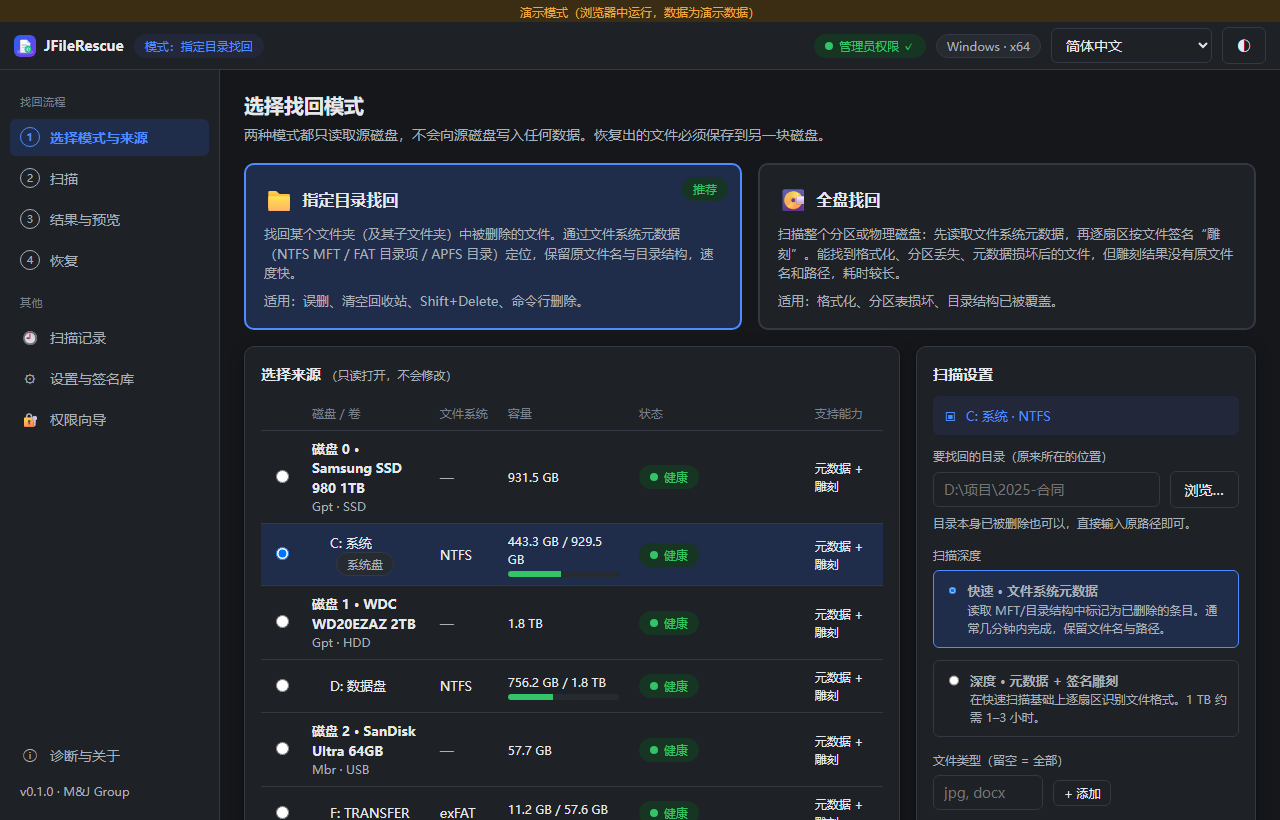
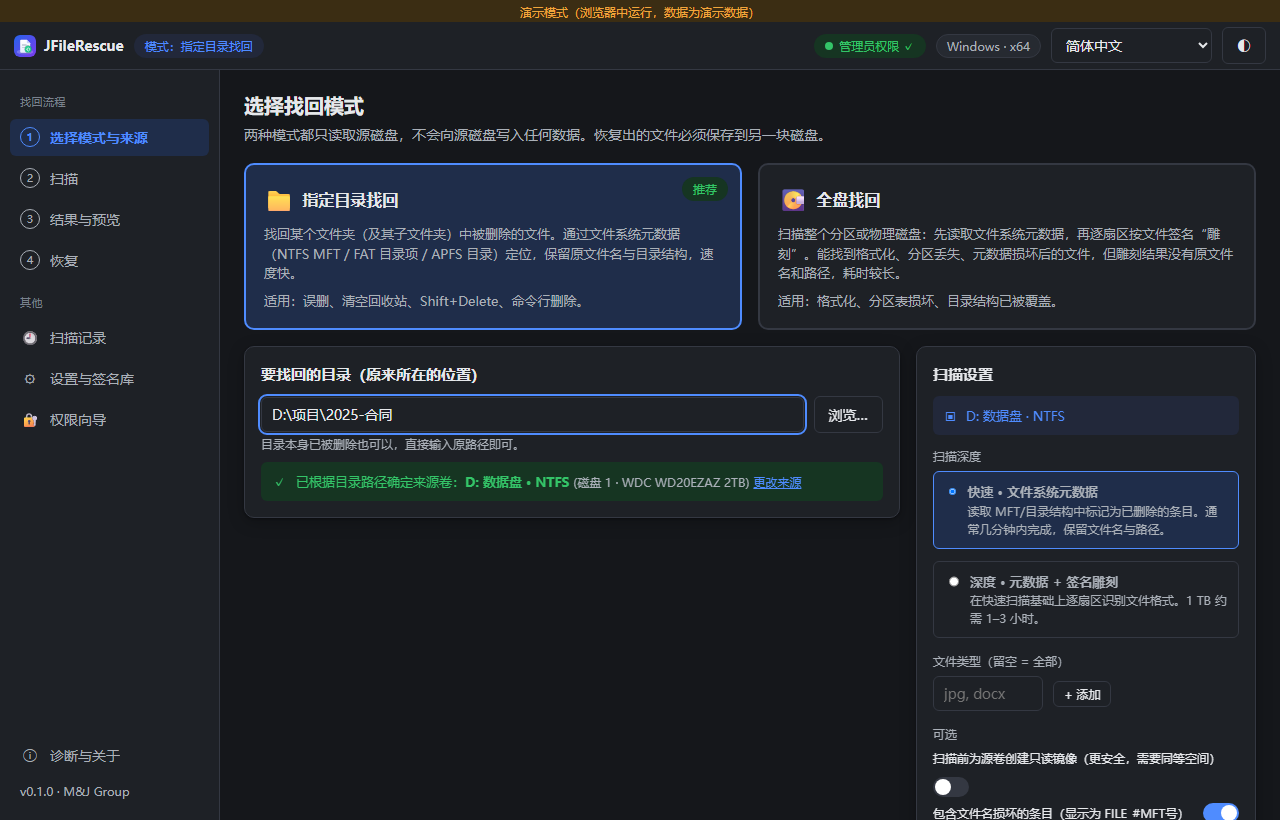
Directory mode infers source volume from path; release workflow tolerates missing signing key; repo URLs → luckySpro/jfilerescue

diff --git a/src/i18n.ts b/src/i18n.ts
@@ -8,7 +8,7 @@ const zhCN = {
   nav: { flow: "找回流程", other: "其他", home: "选择模式与来源", scan: "扫描", results: "结果与预览", recover: "恢复", sessions: "扫描记录", settings: "设置与签名库", perm: "权限向导", about: "诊断与关于" },
   top: { mode: "模式", none: "未选择", elevated: "管理员权限 ✓", notElevated: "未提权", fdaPending: "完全磁盘访问 待确认", theme: "切换主题", lang: "语言", system: "跟随系统", light: "浅色", dark: "深色", demo: "演示模式（浏览器中运行，数据为演示数据）" },
   mode: { title: "选择找回模式", sub: "两种模式都只读取源磁盘，不会向源磁盘写入任何数据。恢复出的文件必须保存到另一块磁盘。", dir: "指定目录找回", dirDesc: "找回某个文件夹（及其子文件夹）中被删除的文件。通过文件系统元数据（NTFS MFT / FAT 目录项 / APFS 目录）定位，保留原文件名与目录结构，速度快。", dirFor: "适用：误删、清空回收站、Shift+Delete、命令行删除。", full: "全盘找回", fullDesc: "扫描整个分区或物理磁盘：先读取文件系统元数据，再逐扇区按文件签名“雕刻”。能找到格式化、分区丢失、元数据损坏后的文件，但雕刻结果没有原文件名和路径，耗时较长。", fullFor: "适用：格式化、分区表损坏、目录结构已被覆盖。", recommended: "推荐" },
-  source: { title: "选择来源", ro: "（只读打开，不会修改）", disk: "磁盘 / 卷", fs: "文件系统", cap: "容量", status: "状态", caps: "支持能力", refresh: "重新检测", noDisk: "看不到磁盘？请确认已获得权限 →", wizard: "权限向导", image: "打开镜像文件…", ssd: "为 SSD 且已启用 TRIM。", ssdWarn: "被删除的数据块可能已被固件擦除，找回成功率显著降低；建议立即停止向该盘写入。", fv: "已启用 FileVault/加密。", fvWarn: "原始设备只能读到密文，签名雕刻不可用；指定目录找回将依赖文件系统元数据。", metaCarve: "元数据 + 雕刻", carveOnly: "仅雕刻 · 全盘模式", system: "系统盘", encrypted: "加密", locked: "已锁定", unlocked: "已解锁", health: { ok: "健康", warn: "警告", bad: "异常", unknown: "未知" }, loading: "正在枚举磁盘…", empty: "未发现磁盘。请以管理员身份运行，或打开镜像文件。" },
+  source: { title: "选择来源", ro: "（只读打开，不会修改）", disk: "磁盘 / 卷", fs: "文件系统", cap: "容量", status: "状态", caps: "支持能力", refresh: "重新检测", noDisk: "看不到磁盘？请确认已获得权限 →", wizard: "权限向导", image: "打开镜像文件…", inferred: "已根据目录路径确定来源卷", changeSource: "更改来源", hideList: "收起", notInferred: "无法从该路径确定所在的卷（盘符/挂载点不在当前设备列表中）。请检查路径，或在下方手动选择来源。", ssd: "为 SSD 且已启用 TRIM。", ssdWarn: "被删除的数据块可能已被固件擦除，找回成功率显著降低；建议立即停止向该盘写入。", fv: "已启用 FileVault/加密。", fvWarn: "原始设备只能读到密文，签名雕刻不可用；指定目录找回将依赖文件系统元数据。", metaCarve: "元数据 + 雕刻", carveOnly: "仅雕刻 · 全盘模式", system: "系统盘", encrypted: "加密", locked: "已锁定", unlocked: "已解锁", health: { ok: "健康", warn: "警告", bad: "异常", unknown: "未知" }, loading: "正在枚举磁盘…", empty: "未发现磁盘。请以管理员身份运行，或打开镜像文件。" },
   settings: { title: "扫描设置", dirLabel: "要找回的目录（原来所在的位置）", dirHint: "目录本身已被删除也可以，直接输入原路径即可。", browse: "浏览…", depth: "扫描深度", quick: "快速 · 文件系统元数据", quickDesc: "读取 MFT/目录结构中标记为已删除的条目。通常几分钟内完成，保留文件名与路径。", deep: "深度 · 元数据 + 签名雕刻", deepDesc: "在快速扫描基础上逐扇区识别文件格式。1 TB 约需 1–3 小时。", deepDirNote: "指定目录模式下雕刻结果无法归属到目录，深度扫描只对全盘模式生效。", types: "文件类型（留空 = 全部）", add: "+ 添加", optional: "可选", imageOpt: "扫描前为源卷创建只读镜像（更安全，需要同等空间）", damaged: "包含文件名损坏的条目（显示为 FILE_#MFT号）", start: "开始扫描", estimate: "快速扫描通常数分钟 · 不占用源盘写入", needDir: "请填写要找回的目录", needSource: "请选择来源磁盘或卷", imageDest: "选择镜像保存位置" },
   scan: { title: "正在扫描", target: "目标", phases: { boot: "① 读取分区与引导扇区", metadata: "② 遍历文件系统元数据", carve: "③ 签名雕刻（未分配簇）", finalize: "④ 整理与去重" }, done: "已完成", running: "进行中", waiting: "等待", elapsed: "已用", remaining: "预计剩余", speed: "读取速度", readErr: "读错误", found: "已发现文件", withName: "含文件名（元数据）", carved: "仅签名（无文件名）", bytes: "已读取", pause: "暂停", resume: "继续", stop: "停止并查看已找到的文件", bg: "最小化到后台", locked: "扫描期间：该卷的恢复操作已锁定", recent: "实时发现", log: "日志", finished: "扫描完成", viewResults: "查看结果 →", failed: "扫描失败", cancelled: "扫描已取消", stopConfirm: "停止扫描？", stopBody: "停止后当前已找到的结果不会保存（元数据阶段完成后才会生成结果）。确定要停止吗？", stopKeep: "继续扫描", stopDo: "停止" },
   results: { title: "扫描结果", completed: "完成于", files: "个文件", saved: "会话已自动保存，可随时回到此页", exportCsv: "导出清单 (CSV)", rescan: "重新扫描", browse: "浏览方式", byDir: "按原目录", byType: "按文件类型", byTime: "按删除时间", carvedGroup: "签名雕刻（无路径）", damagedGroup: "文件名损坏", all: "全部", search: "搜索文件名 / 路径 / 扩展名…", quality: "可恢复性", qAll: "全部", qHigh: "仅高", qHighMed: "高 + 中", size: "大小", sizeAll: "全部", time: "删除时间", timeAll: "全部", h24: "24 小时内", d7: "7 天内", d30: "30 天内", hideEmpty: "隐藏 0 字节", colName: "文件名", colPath: "原路径", colSize: "大小", colTime: "删除时间", colQuality: "可恢复性", colSource: "来源", srcMeta: "元数据", srcCarved: "签名", noPath: "（无路径）", unknown: "未知", preview: "预览", previewHint: "点击左侧文件查看预览", kvName: "文件名", kvPath: "原路径", kvSize: "大小", kvDeleted: "删除时间", kvModified: "修改时间", kvOverwritten: "数据簇", kvQuality: "可恢复性", kvNote: "说明", bytesUnit: "字节", overwritten: "已覆盖", selected: "已选", lowDefault: "可恢复性“低”的文件默认不勾选", selectHigh: "全选“高”", selectPage: "全选本页", clear: "清空", toRecover: "恢复所选文件 →", qLabel: { high: "高", medium: "中", low: "低" }, damagedTag: "文件名损坏", loading: "加载中…", matched: "匹配", more: "加载更多" },
@@ -28,7 +28,7 @@ Object.assign(zhTW.app, { tagline: "唯讀檔案找回" });
 Object.assign(zhTW.nav, { flow: "找回流程", other: "其他", home: "選擇模式與來源", scan: "掃描", results: "結果與預覽", recover: "復原", sessions: "掃描記錄", settings: "設定與簽章庫", perm: "權限精靈", about: "診斷與關於" });
 Object.assign(zhTW.top, { mode: "模式", none: "未選擇", elevated: "系統管理員權限 ✓", notElevated: "未提權", fdaPending: "完整磁碟取用 待確認", theme: "切換主題", lang: "語言", system: "跟隨系統", light: "淺色", dark: "深色", demo: "示範模式（於瀏覽器執行，資料為示範資料）" });
 Object.assign(zhTW.mode, { title: "選擇找回模式", sub: "兩種模式都只讀取來源磁碟，不會寫入任何資料。復原的檔案必須儲存到另一顆磁碟。", dir: "指定目錄找回", dirDesc: "找回某個資料夾（含子資料夾）中被刪除的檔案。透過檔案系統中繼資料（NTFS MFT / FAT 目錄項 / APFS 目錄）定位，保留原檔名與目錄結構，速度快。", dirFor: "適用：誤刪、清空資源回收筒、Shift+Delete、命令列刪除。", full: "全碟找回", fullDesc: "掃描整個分割區或實體磁碟：先讀取檔案系統中繼資料，再逐磁區依檔案簽章「雕刻」。可找到格式化、分割區遺失、中繼資料損毀後的檔案，但雕刻結果沒有原檔名與路徑，耗時較長。", fullFor: "適用：格式化、分割表損毀、目錄結構已被覆寫。", recommended: "推薦" });
-Object.assign(zhTW.source, { title: "選擇來源", ro: "（唯讀開啟，不會修改）", disk: "磁碟 / 磁碟區", fs: "檔案系統", cap: "容量", status: "狀態", caps: "支援能力", refresh: "重新偵測", noDisk: "看不到磁碟？請確認已取得權限 →", wizard: "權限精靈", image: "開啟映像檔…", ssd: "為 SSD 且已啟用 TRIM。", ssdWarn: "被刪除的資料區塊可能已被韌體清除，找回成功率顯著降低；建議立即停止寫入該磁碟。", fv: "已啟用 FileVault/加密。", fvWarn: "原始裝置只能讀到密文，簽章雕刻不可用；指定目錄找回將依賴檔案系統中繼資料。", metaCarve: "中繼資料 + 雕刻", carveOnly: "僅雕刻 · 全碟模式", system: "系統碟", encrypted: "加密", locked: "已鎖定", unlocked: "已解鎖", loading: "正在列舉磁碟…", empty: "未發現磁碟。請以系統管理員身分執行，或開啟映像檔。" });
+Object.assign(zhTW.source, { title: "選擇來源", ro: "（唯讀開啟，不會修改）", disk: "磁碟 / 磁碟區", fs: "檔案系統", cap: "容量", status: "狀態", caps: "支援能力", refresh: "重新偵測", noDisk: "看不到磁碟？請確認已取得權限 →", wizard: "權限精靈", image: "開啟映像檔…", inferred: "已依目錄路徑確定來源磁碟區", changeSource: "變更來源", hideList: "收合", notInferred: "無法從該路徑確定所在磁碟區（磁碟機代號/掛載點不在目前裝置清單中）。請檢查路徑，或在下方手動選擇來源。", ssd: "為 SSD 且已啟用 TRIM。", ssdWarn: "被刪除的資料區塊可能已被韌體清除，找回成功率顯著降低；建議立即停止寫入該磁碟。", fv: "已啟用 FileVault/加密。", fvWarn: "原始裝置只能讀到密文，簽章雕刻不可用；指定目錄找回將依賴檔案系統中繼資料。", metaCarve: "中繼資料 + 雕刻", carveOnly: "僅雕刻 · 全碟模式", system: "系統碟", encrypted: "加密", locked: "已鎖定", unlocked: "已解鎖", loading: "正在列舉磁碟…", empty: "未發現磁碟。請以系統管理員身分執行，或開啟映像檔。" });
 Object.assign(zhTW.settings, { title: "掃描設定", dirLabel: "要找回的目錄（原本所在位置）", dirHint: "目錄本身已被刪除也可以，直接輸入原路徑即可。", browse: "瀏覽…", depth: "掃描深度", quick: "快速 · 檔案系統中繼資料", quickDesc: "讀取 MFT/目錄結構中標記為已刪除的項目。通常數分鐘內完成，保留檔名與路徑。", deep: "深度 · 中繼資料 + 簽章雕刻", deepDesc: "在快速掃描基礎上逐磁區辨識檔案格式。1 TB 約需 1–3 小時。", deepDirNote: "指定目錄模式下雕刻結果無法歸屬到目錄，深度掃描只對全碟模式生效。", types: "檔案類型（留空 = 全部）", add: "+ 新增", optional: "選用", imageOpt: "掃描前為來源磁碟區建立唯讀映像（更安全，需要同等空間）", damaged: "包含檔名損毀的項目（顯示為 FILE_#MFT號）", start: "開始掃描", estimate: "快速掃描通常數分鐘 · 不佔用來源碟寫入", needDir: "請填寫要找回的目錄", needSource: "請選擇來源磁碟或磁碟區", imageDest: "選擇映像儲存位置" });
 Object.assign(zhTW.scan, { title: "正在掃描", target: "目標", done: "已完成", running: "進行中", waiting: "等待", elapsed: "已用", remaining: "預計剩餘", speed: "讀取速度", readErr: "讀取錯誤", found: "已發現檔案", withName: "含檔名（中繼資料）", carved: "僅簽章（無檔名）", bytes: "已讀取", pause: "暫停", resume: "繼續", stop: "停止並檢視已找到的檔案", bg: "最小化到背景", locked: "掃描期間：該磁碟區的復原操作已鎖定", recent: "即時發現", log: "記錄", finished: "掃描完成", viewResults: "檢視結果 →", failed: "掃描失敗", cancelled: "掃描已取消", stopConfirm: "停止掃描？", stopBody: "停止後目前已找到的結果不會儲存（中繼資料階段完成後才會產生結果）。確定要停止嗎？", stopKeep: "繼續掃描", stopDo: "停止" });
 zhTW.scan.phases = { boot: "① 讀取分割區與開機磁區", metadata: "② 走訪檔案系統中繼資料", carve: "③ 簽章雕刻（未配置叢集）", finalize: "④ 整理與去重" };
@@ -51,7 +51,7 @@ const en: Dict = {
   nav: { flow: "Recovery", other: "More", home: "Mode & Source", scan: "Scan", results: "Results & Preview", recover: "Recover", sessions: "History", settings: "Settings & Signatures", perm: "Permissions", about: "Diagnostics & About" },
   top: { mode: "Mode", none: "not selected", elevated: "Administrator ✓", notElevated: "Not elevated", fdaPending: "Full Disk Access pending", theme: "Toggle theme", lang: "Language", system: "System", light: "Light", dark: "Dark", demo: "Demo mode (running in a browser with sample data)" },
   mode: { title: "Choose a recovery mode", sub: "Both modes only read the source disk and never write to it. Recovered files must be saved to a different disk.", dir: "Recover a folder", dirDesc: "Recover deleted files from one folder (and its subfolders). Uses file system metadata (NTFS MFT / FAT entries / APFS catalog), keeps original names and paths, and is fast.", dirFor: "For: accidental deletion, emptied Recycle Bin, Shift+Delete, command-line deletion.", full: "Full disk recovery", fullDesc: "Scans a whole partition or physical disk: file system metadata first, then sector-by-sector signature carving. Finds files after formatting, lost partitions or damaged metadata, but carved files have no original name or path and it takes longer.", fullFor: "For: formatting, damaged partition table, overwritten directory structure.", recommended: "Recommended" },
-  source: { title: "Select source", ro: "(opened read-only, never modified)", disk: "Disk / Volume", fs: "File system", cap: "Capacity", status: "Status", caps: "Capabilities", refresh: "Rescan devices", noDisk: "Missing disks? Check permissions →", wizard: "Permissions", image: "Open image file…", ssd: "is an SSD with TRIM enabled.", ssdWarn: "Deleted blocks may already be erased by the firmware; recovery odds drop sharply. Stop writing to this disk now.", fv: "is encrypted (FileVault).", fvWarn: "The raw device only yields ciphertext; signature carving is unavailable. Folder recovery relies on file system metadata.", metaCarve: "Metadata + carving", carveOnly: "Carving only · full mode", system: "System", encrypted: "Encrypted", locked: "Locked", unlocked: "Unlocked", health: { ok: "Healthy", warn: "Warning", bad: "Bad", unknown: "Unknown" }, loading: "Enumerating disks…", empty: "No disks found. Run as administrator or open an image file." },
+  source: { title: "Select source", ro: "(opened read-only, never modified)", disk: "Disk / Volume", fs: "File system", cap: "Capacity", status: "Status", caps: "Capabilities", refresh: "Rescan devices", noDisk: "Missing disks? Check permissions →", wizard: "Permissions", image: "Open image file…", inferred: "Source volume determined from the folder path", changeSource: "Change source", hideList: "Hide", notInferred: "Could not determine the volume for this path (its drive letter / mount point is not in the device list). Check the path or pick the source below.", ssd: "is an SSD with TRIM enabled.", ssdWarn: "Deleted blocks may already be erased by the firmware; recovery odds drop sharply. Stop writing to this disk now.", fv: "is encrypted (FileVault).", fvWarn: "The raw device only yields ciphertext; signature carving is unavailable. Folder recovery relies on file system metadata.", metaCarve: "Metadata + carving", carveOnly: "Carving only · full mode", system: "System", encrypted: "Encrypted", locked: "Locked", unlocked: "Unlocked", health: { ok: "Healthy", warn: "Warning", bad: "Bad", unknown: "Unknown" }, loading: "Enumerating disks…", empty: "No disks found. Run as administrator or open an image file." },
   settings: { title: "Scan settings", dirLabel: "Folder to recover (original location)", dirHint: "The folder itself may be deleted; just type its original path.", browse: "Browse…", depth: "Scan depth", quick: "Quick · file system metadata", quickDesc: "Reads entries marked deleted in the MFT / directory structure. Usually minutes; keeps names and paths.", deep: "Deep · metadata + signature carving", deepDesc: "Adds sector-by-sector format detection. About 1–3 h per TB.", deepDirNote: "Carved files cannot be attributed to a folder, so deep scan applies to full mode only.", types: "File types (empty = all)", add: "+ Add", optional: "Optional", imageOpt: "Create a read-only image of the volume first (safer, needs equal space)", damaged: "Include entries with damaged names (shown as FILE_#record)", start: "Start scan", estimate: "Quick scan usually takes minutes · never writes to the source", needDir: "Enter the folder to recover", needSource: "Select a source disk or volume", imageDest: "Choose where to save the image" },
   scan: { title: "Scanning", target: "Target", phases: { boot: "① Partition table & boot sector", metadata: "② File system metadata", carve: "③ Signature carving (free clusters)", finalize: "④ Finalize & dedupe" }, done: "done", running: "running", waiting: "waiting", elapsed: "Elapsed", remaining: "Remaining", speed: "Read speed", readErr: "read errors", found: "Files found", withName: "With name (metadata)", carved: "Signature only", bytes: "Bytes read", pause: "Pause", resume: "Resume", stop: "Stop and view found files", bg: "Minimize to background", locked: "While scanning: recovery on this volume is locked", recent: "Live discoveries", log: "Log", finished: "Scan finished", viewResults: "View results →", failed: "Scan failed", cancelled: "Scan cancelled", stopConfirm: "Stop scanning?", stopBody: "Results found so far will not be saved (results are produced once the metadata phase completes). Stop anyway?", stopKeep: "Keep scanning", stopDo: "Stop" },
   results: { title: "Scan results", completed: "Completed", files: "files", saved: "Session saved automatically; you can come back any time", exportCsv: "Export list (CSV)", rescan: "Scan again", browse: "Browse by", byDir: "Original folder", byType: "File type", byTime: "Deletion time", carvedGroup: "Carved (no path)", damagedGroup: "Damaged names", all: "All", search: "Search name / path / extension…", quality: "Recoverability", qAll: "All", qHigh: "High only", qHighMed: "High + medium", size: "Size", sizeAll: "All", time: "Deleted", timeAll: "All", h24: "Last 24 h", d7: "Last 7 days", d30: "Last 30 days", hideEmpty: "Hide 0-byte", colName: "Name", colPath: "Original path", colSize: "Size", colTime: "Deleted", colQuality: "Recoverability", colSource: "Source", srcMeta: "Metadata", srcCarved: "Signature", noPath: "(no path)", unknown: "unknown", preview: "Preview", previewHint: "Select a file to preview", kvName: "Name", kvPath: "Path", kvSize: "Size", kvDeleted: "Deleted", kvModified: "Modified", kvOverwritten: "Clusters", kvQuality: "Recoverability", kvNote: "Note", bytesUnit: "bytes", overwritten: "overwritten", selected: "Selected", lowDefault: "“Low” files are unchecked by default", selectHigh: "Select all “high”", selectPage: "Select page", clear: "Clear", toRecover: "Recover selected →", qLabel: { high: "High", medium: "Medium", low: "Low" }, damagedTag: "damaged name", loading: "Loading…", matched: "matching", more: "Load more" },
@@ -69,7 +69,7 @@ const ja: Dict = {
   nav: { flow: "復元フロー", other: "その他", home: "モードとソース", scan: "スキャン", results: "結果とプレビュー", recover: "復元", sessions: "スキャン履歴", settings: "設定とシグネチャ", perm: "権限ウィザード", about: "診断と情報" },
   top: { mode: "モード", none: "未選択", elevated: "管理者権限 ✓", notElevated: "未昇格", fdaPending: "フルディスクアクセス 未確認", theme: "テーマ切替", lang: "言語", system: "システムに従う", light: "ライト", dark: "ダーク", demo: "デモモード（ブラウザ実行・サンプルデータ）" },
   mode: { title: "復元モードを選択", sub: "どちらのモードもソースディスクを読み取るだけで書き込みません。復元したファイルは別のディスクに保存してください。", dir: "フォルダ指定復元", dirDesc: "特定フォルダ（サブフォルダ含む）の削除ファイルを復元。ファイルシステムのメタデータ（NTFS MFT / FAT エントリ / APFS カタログ）から元の名前とパスを保持し高速です。", dirFor: "対象：誤削除、ごみ箱を空にした、Shift+Delete、コマンドライン削除。", full: "ディスク全体復元", fullDesc: "パーティションまたは物理ディスク全体をスキャン。メタデータの後、セクタ単位でシグネチャによる「カービング」を行います。フォーマット後やパーティション消失にも対応しますが、カービング結果には元の名前とパスがなく時間がかかります。", fullFor: "対象：フォーマット、パーティションテーブル破損、ディレクトリ構造の上書き。", recommended: "推奨" },
-  source: { title: "ソースを選択", ro: "（読み取り専用で開きます）", disk: "ディスク / ボリューム", fs: "ファイルシステム", cap: "容量", status: "状態", caps: "対応機能", refresh: "再検出", noDisk: "ディスクが見えない場合は権限を確認 →", wizard: "権限ウィザード", image: "イメージファイルを開く…", ssd: "は TRIM 有効の SSD です。", ssdWarn: "削除済みブロックはファームウェアにより消去済みの可能性があり、復元率が大幅に低下します。直ちに書き込みを停止してください。", fv: "は FileVault で暗号化されています。", fvWarn: "生デバイスからは暗号文しか読めずカービングは不可。フォルダ復元はメタデータに依存します。", metaCarve: "メタデータ + カービング", carveOnly: "カービングのみ · 全体モード", system: "システム", encrypted: "暗号化", locked: "ロック中", unlocked: "ロック解除済", health: { ok: "正常", warn: "警告", bad: "異常", unknown: "不明" }, loading: "ディスクを列挙中…", empty: "ディスクが見つかりません。管理者として実行するか、イメージファイルを開いてください。" },
+  source: { title: "ソースを選択", ro: "（読み取り専用で開きます）", disk: "ディスク / ボリューム", fs: "ファイルシステム", cap: "容量", status: "状態", caps: "対応機能", refresh: "再検出", noDisk: "ディスクが見えない場合は権限を確認 →", wizard: "権限ウィザード", image: "イメージファイルを開く…", inferred: "フォルダのパスからソースボリュームを特定しました", changeSource: "ソースを変更", hideList: "閉じる", notInferred: "このパスのボリュームを特定できません（ドライブ文字/マウントポイントがデバイス一覧にありません）。パスを確認するか、下で手動選択してください。", ssd: "は TRIM 有効の SSD です。", ssdWarn: "削除済みブロックはファームウェアにより消去済みの可能性があり、復元率が大幅に低下します。直ちに書き込みを停止してください。", fv: "は FileVault で暗号化されています。", fvWarn: "生デバイスからは暗号文しか読めずカービングは不可。フォルダ復元はメタデータに依存します。", metaCarve: "メタデータ + カービング", carveOnly: "カービングのみ · 全体モード", system: "システム", encrypted: "暗号化", locked: "ロック中", unlocked: "ロック解除済", health: { ok: "正常", warn: "警告", bad: "異常", unknown: "不明" }, loading: "ディスクを列挙中…", empty: "ディスクが見つかりません。管理者として実行するか、イメージファイルを開いてください。" },
   settings: { title: "スキャン設定", dirLabel: "復元するフォルダ（元の場所）", dirHint: "フォルダ自体が削除済みでも元のパスを入力すれば構いません。", browse: "参照…", depth: "スキャン深度", quick: "クイック · メタデータ", quickDesc: "MFT / ディレクトリ構造の削除済みエントリを読み取ります。通常数分で、名前とパスを保持。", deep: "ディープ · メタデータ + カービング", deepDesc: "セクタ単位でフォーマットを識別。1 TB あたり約 1〜3 時間。", deepDirNote: "フォルダ指定モードではカービング結果をフォルダに帰属できないため、ディープはディスク全体モードのみ有効です。", types: "ファイル種別（空 = すべて）", add: "+ 追加", optional: "オプション", imageOpt: "スキャン前にボリュームの読み取り専用イメージを作成（安全・同容量が必要）", damaged: "名前が破損したエントリを含める（FILE_#番号 と表示）", start: "スキャン開始", estimate: "クイックは通常数分 · ソースに書き込みません", needDir: "復元するフォルダを入力してください", needSource: "ソースディスクまたはボリュームを選択してください", imageDest: "イメージの保存先を選択" },
   scan: { title: "スキャン中", target: "対象", phases: { boot: "① パーティションとブートセクタ", metadata: "② メタデータの走査", carve: "③ シグネチャカービング（未割当）", finalize: "④ 整理と重複除去" }, done: "完了", running: "実行中", waiting: "待機", elapsed: "経過", remaining: "残り", speed: "読み取り速度", readErr: "読取エラー", found: "検出ファイル", withName: "名前あり（メタデータ）", carved: "シグネチャのみ", bytes: "読み取り済", pause: "一時停止", resume: "再開", stop: "停止して検出済みを表示", bg: "バックグラウンドへ", locked: "スキャン中：このボリュームの復元はロックされています", recent: "リアルタイム検出", log: "ログ", finished: "スキャン完了", viewResults: "結果を表示 →", failed: "スキャン失敗", cancelled: "キャンセルされました", stopConfirm: "スキャンを停止しますか？", stopBody: "停止すると現在の結果は保存されません（メタデータ段階完了後に結果が生成されます）。停止しますか？", stopKeep: "続行", stopDo: "停止" },
   results: { title: "スキャン結果", completed: "完了", files: "件", saved: "セッションは自動保存され、いつでも戻れます", exportCsv: "一覧を書き出し (CSV)", rescan: "再スキャン", browse: "表示方法", byDir: "元のフォルダ", byType: "ファイル種別", byTime: "削除日時", carvedGroup: "カービング（パスなし）", damagedGroup: "名前破損", all: "すべて", search: "名前 / パス / 拡張子を検索…", quality: "復元可能性", qAll: "すべて", qHigh: "高のみ", qHighMed: "高 + 中", size: "サイズ", sizeAll: "すべて", time: "削除日時", timeAll: "すべて", h24: "24 時間以内", d7: "7 日以内", d30: "30 日以内", hideEmpty: "0 バイトを隠す", colName: "名前", colPath: "元のパス", colSize: "サイズ", colTime: "削除日時", colQuality: "復元可能性", colSource: "ソース", srcMeta: "メタデータ", srcCarved: "シグネチャ", noPath: "（パスなし）", unknown: "不明", preview: "プレビュー", previewHint: "左のファイルを選択するとプレビュー", kvName: "名前", kvPath: "パス", kvSize: "サイズ", kvDeleted: "削除日時", kvModified: "更新日時", kvOverwritten: "クラスタ", kvQuality: "復元可能性", kvNote: "備考", bytesUnit: "バイト", overwritten: "上書き", selected: "選択", lowDefault: "「低」はデフォルトで未選択", selectHigh: "「高」をすべて選択", selectPage: "このページを選択", clear: "クリア", toRecover: "選択を復元 →", qLabel: { high: "高", medium: "中", low: "低" }, damagedTag: "名前破損", loading: "読み込み中…", matched: "一致", more: "さらに読み込む" },

diff --git a/src/screens/HomeScreen.vue b/src/screens/HomeScreen.vue
@@ -1,5 +1,5 @@
 <script setup lang="ts">
-import { computed, ref } from "vue";
+import { computed, ref, watch } from "vue";
 import { api, pickDirectory, pickFile, pickSavePath, type DiskEntry, type VolumeEntry } from "../api";
 import { dict } from "../i18n";
 import { disks, disksLoading, go, humanBytes, notify, privilege, setup } from "../store";
@@ -35,6 +35,35 @@ async function browseDir() {
   if (p) setup.directory = p;
 }
 
+/** Infer the source volume from the directory path: drive letter on Windows,
+ *  mount point prefix on macOS (`/Volumes/Name/...` or `/` for the system volume). */
+function volumeForPath(path: string): { d: DiskEntry; v: VolumeEntry } | null {
+  const p = path.trim();
+  if (!p) return null;
+  let best: { d: DiskEntry; v: VolumeEntry; len: number } | null = null;
+  for (const d of disks.value) {
+    for (const v of d.volumes) {
+      if (!v.mount) continue;
+      const m = v.mount.replace(/[\\/]+$/, "");
+      const norm = (s: string) => s.replace(/\\/g, "/").toLowerCase();
+      const pn = norm(p), mn = norm(m);
+      const hit = mn === "" ? pn.startsWith("/") : pn === mn || pn.startsWith(mn + "/");
+      if (hit && (!best || m.length > best.len)) best = { d, v, len: m.length };
+    }
+  }
+  return best ? { d: best.d, v: best.v } : null;
+}
+/** True when the directory path is on a volume we can see (so manual source pick is unnecessary). */
+const inferred = computed(() => (setup.mode === "directory" ? volumeForPath(setup.directory) : null));
+// Keep setup.source in sync with the typed directory; a manually chosen image stays.
+watch(inferred, (hit) => {
+  if (hit && !setup.source?.disk.path.match(/\.(img|dd|raw|bin|iso|dmg)$/i)) selectVolume(hit.d, hit.v);
+});
+const needManualSource = computed(() => setup.mode === "full" || (!inferred.value && !setup.source));
+const showList = ref(false);
+// Changing mode resets the manual-list toggle.
+watch(() => setup.mode, () => (showList.value = false));
+
 function addExt() {
   for (const e of extInput.value.split(/[,\s/]+/)) {
     const x = e.trim().replace(/^\./, "").toLowerCase();
@@ -60,8 +89,9 @@ function capText(d: DiskEntry, v: VolumeEntry | null) {
 }
 
 async function start() {
-  if (!setup.source) return notify(t.value.settings.needSource, "error");
   if (setup.mode === "directory" && !setup.directory.trim()) return notify(t.value.settings.needDir, "error");
+  if (setup.mode === "directory" && inferred.value && !setup.source) selectVolume(inferred.value.d, inferred.value.v);
+  if (!setup.source) return notify(setup.mode === "directory" ? t.value.source.notInferred : t.value.settings.needSource, "error");
   starting.value = true;
   try {
     let source = setup.source.path;
@@ -112,7 +142,18 @@ async function start() {
     </div>
 
     <div class="grid-main-side mt">
-      <div class="card">
+      <div>
+        <!-- Directory mode: the path decides the source; show it first. -->
+        <div v-if="setup.mode === 'directory'" class="card" style="margin-bottom: 16px">
+          <h2>{{ t.settings.dirLabel }}</h2>
+          <div class="row"><input type="text" v-model="setup.directory" :placeholder="isMac ? '/Volumes/LaCie/Photos/2025' : 'D:\\项目\\2025-合同'" style="flex: 1" /><button class="btn" @click="browseDir">{{ t.settings.browse }}</button></div>
+          <span class="small muted">{{ t.settings.dirHint }}</span>
+          <div v-if="inferred" class="notice ok mt-s"><span>✓</span><span>{{ t.source.inferred }}：<b>{{ inferred.v.display_name }} · {{ inferred.v.fs_label }}</b> <span class="muted small">({{ inferred.d.display_name }})</span> <a href="#" class="small" @click.prevent="showList = !showList">{{ showList ? t.source.hideList : t.source.changeSource }}</a></span></div>
+          <div v-else-if="setup.directory.trim() && disks.length" class="notice warn mt-s"><span>⚠</span><span>{{ t.source.notInferred }}</span></div>
+          <div v-else-if="setup.source" class="notice info mt-s"><span>▣</span><span class="ellipsis">{{ setup.source.displayName }} <a href="#" class="small" @click.prevent="showList = !showList">{{ showList ? t.source.hideList : t.source.changeSource }}</a></span></div>
+        </div>
+
+        <div class="card" v-show="needManualSource || showList">
         <h2>{{ t.source.title }} <span class="small muted" style="font-weight: 400">{{ t.source.ro }}</span></h2>
         <div v-if="disksLoading" class="empty"><span class="spin"></span> {{ t.source.loading }}</div>
         <div v-else-if="disks.length === 0" class="empty">{{ t.source.empty }}</div>
@@ -144,17 +185,13 @@ async function start() {
           <button class="btn" @click="openImage">{{ t.source.image }}</button>
           <span class="small muted">{{ t.source.noDisk }} <a href="#" @click.prevent="go('perm')">{{ t.source.wizard }}</a></span>
         </div>
+        </div>
         <div v-if="warning" class="notice warn mt"><span>⚠</span><span><span class="b">{{ warning.b }}</span> {{ warning.text }}</span></div>
       </div>
 
       <div class="card">
         <h2>{{ t.settings.title }}</h2>
         <div v-if="setup.source" class="notice info" style="margin-bottom: 12px"><span>▣</span><span class="ellipsis">{{ setup.source.displayName }}</span></div>
-        <div class="field" v-if="setup.mode === 'directory'">
-          <label>{{ t.settings.dirLabel }}</label>
-          <div class="row"><input type="text" v-model="setup.directory" :placeholder="isMac ? '/Volumes/LaCie/Photos/2025' : 'D:\\项目\\2025-合同'" style="flex: 1" /><button class="btn" @click="browseDir">{{ t.settings.browse }}</button></div>
-          <span class="small muted">{{ t.settings.dirHint }}</span>
-        </div>
         <div class="field">
           <label>{{ t.settings.depth }}</label>
           <label class="radio" :class="{ on: setup.depth === 'quick' }"><input type="radio" name="depth" value="quick" v-model="setup.depth" /><div><b>{{ t.settings.quick }}</b><span>{{ t.settings.quickDesc }}</span></div></label>
@@ -174,7 +211,7 @@ async function start() {
           <div class="row" style="justify-content: space-between"><span class="small">{{ t.settings.imageOpt }}</span><button class="switch" :class="{ on: setup.makeImage }" @click="setup.makeImage = !setup.makeImage" role="switch" :aria-checked="setup.makeImage"></button></div>
           <div class="row" style="justify-content: space-between"><span class="small">{{ t.settings.damaged }}</span><button class="switch" :class="{ on: setup.includeDamaged }" @click="setup.includeDamaged = !setup.includeDamaged" role="switch" :aria-checked="setup.includeDamaged"></button></div>
         </div>
-        <button class="btn primary lg" style="width: 100%; justify-content: center" :disabled="starting || !setup.source" @click="start"><span v-if="starting" class="spin"></span>▶ {{ t.settings.start }}</button>
+        <button class="btn primary lg" style="width: 100%; justify-content: center" :disabled="starting || (setup.mode === 'directory' ? !setup.directory.trim() || (!inferred && !setup.source) : !setup.source)" @click="start"><span v-if="starting" class="spin"></span>▶ {{ t.settings.start }}</button>
         <p class="small muted mt-s">{{ t.settings.estimate }}</p>
       </div>
     </div>

diff --git a/src/screens/AboutScreen.vue b/src/screens/AboutScreen.vue
@@ -43,7 +43,7 @@ const oss = [
         <p class="small muted">{{ t.about.platforms }}</p>
         <h2 class="mt">{{ t.about.oss }}</h2>
         <table><tbody><tr v-for="[n, l] in oss" :key="n"><td>{{ n }}</td><td class="small muted">{{ l }}</td></tr></tbody></table>
-        <div class="row mt"><a class="btn" href="https://github.com/mjgroup/jfilerescue" target="_blank" rel="noopener">{{ t.about.source }}</a></div>
+        <div class="row mt"><a class="btn" href="https://github.com/luckySpro/jfilerescue" target="_blank" rel="noopener">{{ t.about.source }}</a></div>
       </div>
     </div>
   </section>

diff --git a/README.md b/README.md
@@ -79,7 +79,7 @@ jfr sigs list | enable | disable | export | import | restore-defaults
 
 ## 发布
 
-`.github/workflows/release.yml`：按 tag 构建 Windows x64（NSIS + MSI，内置 WebView2 离线安装器）与 macOS（arm64 / x64 DMG），生成 updater 签名与 `latest.json`。需要 secrets：`TAURI_SIGNING_PRIVATE_KEY`、`TAURI_SIGNING_PRIVATE_KEY_PASSWORD`；Apple / Windows 代码签名证书按需配置。`tauri.conf.json` 中 `plugins.updater.pubkey` 需替换为配套公钥。
+`.github/workflows/release.yml`：按 tag 构建 Windows x64（NSIS + MSI，内置 WebView2 离线安装器）与 macOS（arm64 / x64 DMG），生成 updater 签名与 `latest.json`。需要 secrets：`TAURI_SIGNING_PRIVATE_KEY`、`TAURI_SIGNING_PRIVATE_KEY_PASSWORD`（未配置时仍会构建并发布，但不生成更新签名/`latest.json`）；Apple / Windows 代码签名证书按需配置。
 
 更新通道含 GH-Proxy 镜像回退，签名校验不受影响。
 
